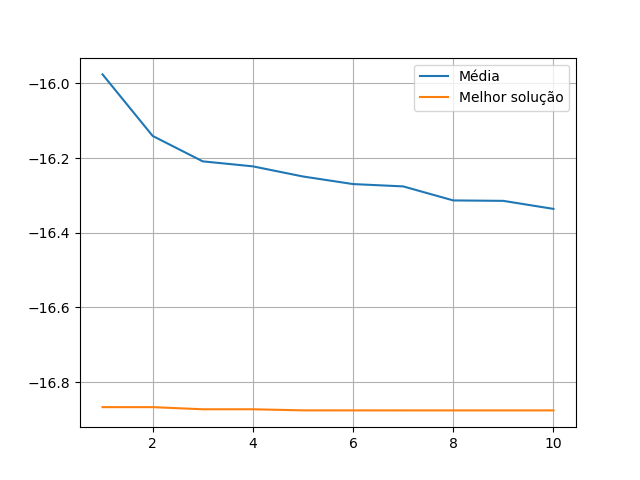
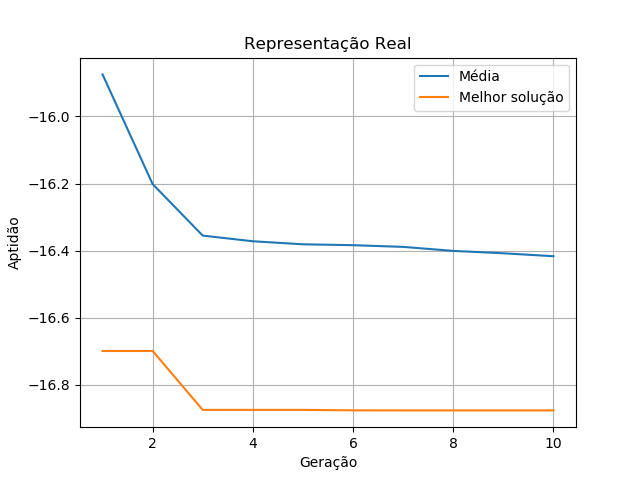
atualizando codigo ag1

diff --git a/Genético - PT1/genetico.py b/Genético - PT1/genetico.py
@@ -131,21 +131,61 @@ def escreve_arquivo(texto, geracao):
     arquivo.close()
 
 
-def conteudo_arquivo(melhores):
+def conteudo_arquivo(melhores, geracao, media):
     texto = ''
 
-    texto = '\t;Iter 1; Iter 2; Iter 3; Iter 4; Iter 5; Iter 6; Iter 7; Iter 8; Iter 9; Iter 10 \n Gen 1;'
+    if (geracao == 10):
+
+        texto = '\t;Gen 1; Gen 2; Gen 3; Gen 4; Gen 5; Gen 6; Gen 7;  Gen 8; Gen 9; Gen 10 \n Exe 1;'
+
+    else:
+
+        texto = '\t;Gen 1; Gen 2; Gen 3; Gen 4; Gen 5; Gen 6; Gen 7;  Gen 8; Gen 9; Gen 10; Gen 11; Gen 12; Gen 13; Gen 14; Gen 15; Gen 16; Gen 17;  Gen 18; Gen 19; Gen 20\n Exe 1;'
+        
     j = 1
     for cromossomo in melhores:
         j = j + 1
         for i in range(0, len(cromossomo)):
             # print(cromossomo)
             texto = texto + str(round(cromossomo[i], 5)).replace('.', ',') + ';'
-        texto = texto + '\n Gen ' + str(j) + ';'
+        texto = texto + '\n Exe ' + str(j) + ';'
 
     texto += '\n\n'
-  
+
+    texto += 'Média: ;'
+
+    for valor in media:
+        texto = texto + str(round(valor, 5)).replace('.', ',') + ';'
+
+ 
     return texto
+
+def media_melhores(melhores):
+    media_melhores = []
+   
+    for linha in melhores:
+        soma = 0
+        for cromossomo in linha:
+            soma += cromossomo
+        media_melhores.append(soma/10)
+
+    return media_melhores
+
+
+def grafico(geracao, media, melhor_solucao):
+    import matplotlib.pyplot as plt
+
+    x = [i for i in range(1, geracao+1)]
+
+    plt.plot(x, media, label="Média")
+    plt.plot(x, melhor_solucao, label="Melhor solução")
+    plt.title("Representação Binária")
+    plt.ylabel("Aptidão")
+    plt.xlabel("Gerações")
+    plt.grid()
+    plt.legend(loc="best")
+    plt.savefig('geracao' +str(geracao)+ '.png')
+    plt.close()
 
 def bin2Dec(binary):
 
@@ -178,15 +218,17 @@ def main():
     geracoes = [10,20]
     
     for geracao in geracoes:
+        
         melhores_melhores = []
         
-        for _ in range(0,geracao):
+        for _ in range(10):
 
             # 1° Passo: Criar População c/ aptidão
             populacao = cria_populacao(numero_populacao)
             melhores = []
-            cruzado = []   
-            for _ in range(0,numero_populacao):
+            cruzado = []
+            
+            for _ in range(geracao):
                                
                 # 2° Passo: Seleção por Torneio
                 pais = selecao_torneio(populacao)
@@ -205,6 +247,39 @@ def main():
 
             melhores_melhores.append(melhores)
 
-        escreve_arquivo(conteudo_arquivo(melhores_melhores), geracao)
+        for i in range(len(melhores_melhores)):
+            print(melhores_melhores[i])
+           
+       
+        media = []
+        for i in range(geracao): #Quantidade de GERACOES
+            media.append(0)
+            for j in range(10): #Quantidade de EXECUCOES
+                media[i] += melhores_melhores[j][i]
+            media[i] /= 10
+
+        print("media: ", media)
+
+
+        pos_melhor = 0
+        menor_aptidao = melhores_melhores[0][-1]
+        
+        for i in range(1, len(melhores_melhores)):
+            if (menor_aptidao > melhores_melhores[i][-1]):
+                menor_aptidao = melhores_melhores[i][-1]
+                pos_melhor = i
+
+        melhor_solucao = melhores_melhores[pos_melhor]
+
+
+        ##print(pos_melhor, '\n\n')
+
+        ##print(melhor_solucao)
+
+        grafico(geracao, media, melhor_solucao)
+
+
+        escreve_arquivo(conteudo_arquivo(melhores_melhores, geracao, media), geracao)
+
 
 main()

diff --git a/Genético - PT2/geneticopt2.py b/Genético - PT2/geneticopt2.py
@@ -125,11 +125,11 @@ def conteudo_arquivo(melhores, geracao, media):
 
     if (geracao == 10):
 
-        texto = '\t;Gen 1; Gen 2; Gen 3; Gen 4; Gen 5; Gen 6; Gen 7;  Gen 8; Gen 9; Gen 10 \n Ite 1;'
+        texto = '\t;Gen 1; Gen 2; Gen 3; Gen 4; Gen 5; Gen 6; Gen 7;  Gen 8; Gen 9; Gen 10 \n Exe 1;'
 
     else:
 
-        texto = '\t;Gen 1; Gen 2; Gen 3; Gen 4; Gen 5; Gen 6; Gen 7;  Gen 8; Gen 9; Gen 10; Gen 11; Gen 12; Gen 13; Gen 14; Gen 15; Gen 16; Gen 17;  Gen 18; Gen 19; Gen 20\n Ite 1;'
+        texto = '\t;Gen 1; Gen 2; Gen 3; Gen 4; Gen 5; Gen 6; Gen 7;  Gen 8; Gen 9; Gen 10; Gen 11; Gen 12; Gen 13; Gen 14; Gen 15; Gen 16; Gen 17;  Gen 18; Gen 19; Gen 20\n Exe 1;'
         
     j = 1
     for cromossomo in melhores:
@@ -137,13 +137,12 @@ def conteudo_arquivo(melhores, geracao, media):
         for i in range(0, len(cromossomo)):
             # print(cromossomo)
             texto = texto + str(round(cromossomo[i], 5)).replace('.', ',') + ';'
-        texto = texto + '\n Ite ' + str(j) + ';'
+        texto = texto + '\n Exe ' + str(j) + ';'
 
     texto += '\n\n'
 
     texto += 'Média: ;'
 
-    media = media_melhores(melhores)
 
     for valor in media:
         texto = texto + str(round(valor, 5)).replace('.', ',') + ';'
@@ -171,6 +170,9 @@ def grafico(geracao, media, melhor_solucao):
 
     plt.plot(x, media, label="Média")
     plt.plot(x, melhor_solucao, label="Melhor solução")
+    plt.ylabel("Aptidão")
+    plt.xlabel("Geração")
+    plt.title("Representação Real")
     plt.grid()
     plt.legend(loc="best")
     plt.savefig('geracao' +str(geracao)+ '.png')
